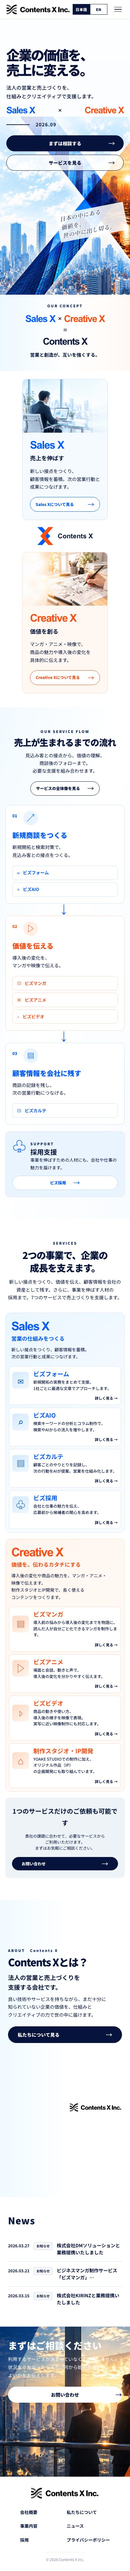
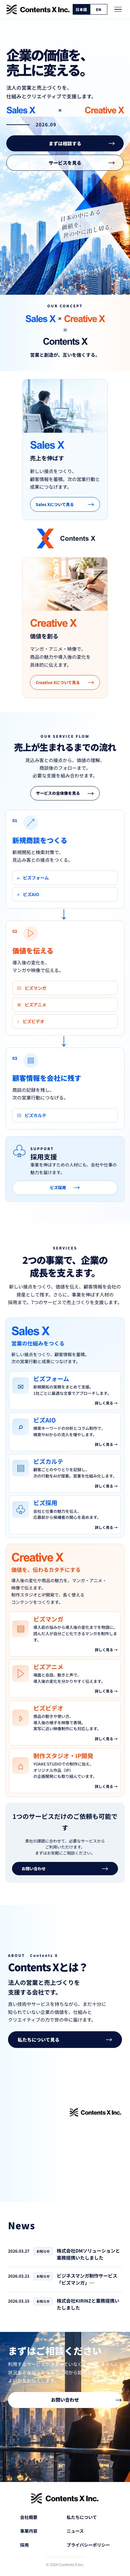
fix: #057 中央Xのオレンジ端に余白を確保

diff --git a/css/home-2026.css b/css/home-2026.css
@@ -63,7 +63,7 @@ html[lang="en"] .cxh-hero h1 { font-size:clamp(40px,5vw,72px); letter-spacing:-.
 .cxh-pillar-sales .cxh-pill-link { color:#005bfa; }
 .cxh-pillar-creative .cxh-pill-link { color:#fa4d12; }
 .cxh-mark { position:relative; z-index:2; display:flex; flex-direction:column; align-items:center; min-width:0; color:#07143b; font-family:Arial,sans-serif; font-size:clamp(18px,1.55vw,24px); font-weight:900; text-align:center; line-height:1.1; white-space:nowrap; pointer-events:none; }
-.cxh-mark-x { display:block; width:clamp(90px,9vw,142px); height:auto; overflow:visible; }
+.cxh-mark-x { display:block; width:clamp(110px,10.8vw,164px); height:auto; overflow:visible; }
 
 /* Flow */
 .cxh-flow { padding:85px 0 90px; background:linear-gradient(105deg,#f2faff,#fff 46%,#f8fbff); }
@@ -177,7 +177,7 @@ html[lang="en"] .cxh-hero h1 { font-size:clamp(40px,5vw,72px); letter-spacing:-.
   .cxh-pillar-copy { width:56%; padding:37px 24px; }
   .cxh-pillar-sales .cxh-pillar-copy { margin-left:31%; }
   .cxh-mark { flex-direction:row; justify-content:center; gap:12px; padding:15px 0; font-size:20px; }
-  .cxh-mark-x { width:56px; }
+  .cxh-mark-x { width:70px; }
   .cxh-service-item { grid-template-columns:54px minmax(0,1fr); }
   .cxh-service-icon { width:50px; height:50px; font-size:29px; }
   .cxh-service-item em { grid-column:2; text-align:right; }
@@ -219,7 +219,7 @@ html[lang="en"] .cxh-hero h1 { font-size:clamp(40px,5vw,72px); letter-spacing:-.
   .cxh-pillar p { margin-top:12px; font-size:14px; }
   .cxh-pill-link { display:flex; width:100%; margin-top:18px; min-height:44px; }
   .cxh-mark { padding:20px 0; }
-  .cxh-mark-x { width:50px; }
+  .cxh-mark-x { width:64px; }
   .cxh-flow { padding:64px 0; }
   .cxh-section-head { display:block; text-align:center; }
   .cxh-section-head h2 { font-size:clamp(26px,6.8vw,39px); }

diff --git a/index.html b/index.html
@@ -266,7 +266,7 @@
           <a class="cxh-pill-link" href="/services/#list-group-sales"><span data-ja="Sales Xについて見る" data-en="Explore Sales X">Sales Xについて見る</span><span aria-hidden="true">→</span></a>
         </div>
       </div>
-      <div class="cxh-mark" aria-label="Contents X"><svg class="cxh-mark-x" viewBox="0 0 160 180" aria-hidden="true" focusable="false"><path fill="#005bfa" d="M4 4h47l77 86-77 86H4l77-86z"/><path fill="#fa4d12" d="M109 4h47L79 90l77 86h-47L32 90z"/></svg><span>Contents X</span></div>
+      <div class="cxh-mark" aria-label="Contents X"><svg class="cxh-mark-x" viewBox="0 0 200 220" aria-hidden="true" focusable="false"><path fill="#005bfa" d="M20 18h48l69 92-69 92H20l69-92z"/><path fill="#fa4d12" d="M132 18h48l-69 92 69 92h-48l-69-92z"/></svg><span>Contents X</span></div>
       <div class="cxh-pillar cxh-pillar-creative" data-cxh-reveal>
         <div class="cxh-pillar-photo" data-cxh-curtain aria-hidden="true"></div>
         <div class="cxh-pillar-copy">

diff --git a/SPEC.md b/SPEC.md
@@ -45,7 +45,7 @@ contact フォーム送信時にメッセージ末尾にトラッキング情報
 - 白・無彩色を土台に、画像内の青とオレンジをSales X / Creative Xの識別色として使用。旧マゼンタテーマはトップで使わない（`body[data-theme="neutral"]`）。他ページのテーマは変更しない。
 - 素材: `material/home-2026/{hero,sales,creative,about,contact}.jpg` と事業紹介用の `sales-safe.jpg` / `creative-safe.jpg`。ユーザー指定デザインを参照に生成した画像で、文字とロゴは画像へ焼き込まずHTMLで重ねる。事業紹介の元画像は被写体が素材の端で切れていたため、余白を設けて再生成した `*-safe.jpg` を表示に使用する。生成したオフィスはイメージ画像として扱う。
 - モーション: `js/home-2026.js` と `css/home-2026.css`。ヒーロー文字の登場、スクロールでの段階的な表示、画像の左→右ワイプ（Sales X / Creative X の写真にも適用）、カード・ボタンのホバー移動。`prefers-reduced-motion: reduce` では瞬時表示。JS不在でも内容は表示する。ワイプ要素自身を幅0にクリップすると交差監視できないため、親コンテナを監視して子要素を表示する。
-- ヒーロー右側の理念コピーは、都市画像の明暗の上でも読めるよう紺色の字に白い縁と淡い白い影を重ねる。事業紹介の中央「X / Contents X」は独立したグリッド列に配置して左右の文言・CTAに重ならないようにし、Xは青とオレンジのSVGで四辺が見切れない形に描画する。写真は左カードを左寄せ、右カードを右寄せとして、余白付き素材の人物と作画の手を表示する。
+- ヒーロー右側の理念コピーは、都市画像の明暗の上でも読めるよう紺色の字に白い縁と淡い白い影を重ねる。事業紹介の中央「X / Contents X」は独立したグリッド列に配置して左右の文言・CTAに重ならないようにする。XのSVGは図形の上下18・左右20 viewBox単位の余白を取り、青とオレンジの両端を欠けずに描画する。写真は左カードを左寄せ、右カードを右寄せとして、余白付き素材の人物と作画の手を表示する。
 - レスポンシブ: 768px以下でヒーローを縦構成、事業カードとサービス欄を1列にする。事業紹介は1100px以下で縦並びに切り替える。文字は `clamp()` で連続スケール。320/390/412/448/640/768/1024/1100/1101/1280/1440/1920pxの横溢れ・事業カード内の文字収まりをブラウザ確認。
 - リンク: 総合ページは `/services/`（Issue #20の別制作）。ビズフォーム `https://bizform.contentsx.jp/`、ビズマンガ `https://bizmanga.contentsx.jp/`、ビズ採用 `https://ichioshi.contentsx.jp/` は公開先へ直リンク。外部URLが未確定のサービスはIssue #20で用意された `/services/{slug}/`、Sales X / Creative Xの紹介は `/services/#list-group-{sales|creative}` に向ける。制作スタジオ・IP開発は総合ページへ。Issue #20のページが本番公開されるまでこれらの内部リンクは到達先未実装。
 - 旧トップ用JS（`script.js`、`hero-new.js`、`hero-fx.js`、`cta.js` 等）はトップでは読み込まず、他ページ用の実装とファイルは残す。`i18n.js` → `nav.js` の読込順を維持。
